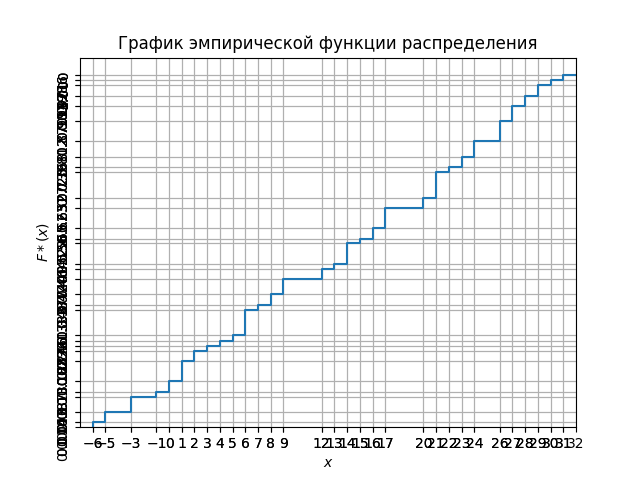
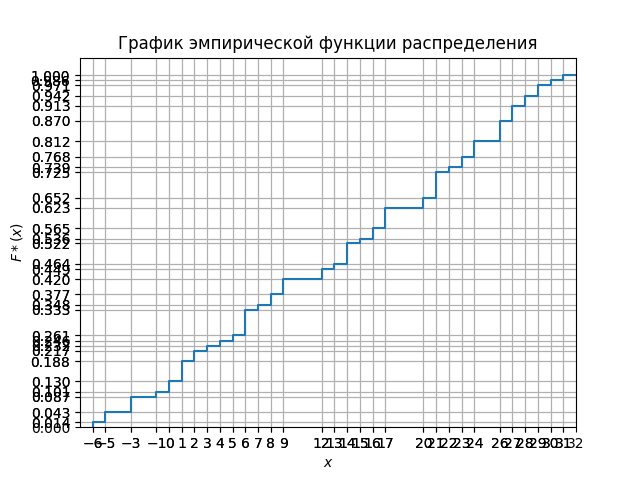
Добавил точки на осях

Changed region(s): [[0.0, 0.125, 0.125, 0.9688]]

diff --git a/Laba_5/2.py b/Laba_5/2.py
@@ -115,6 +115,8 @@ def F_x (intervals,rel_freq):
     sorted_intervals.insert(0,sorted_intervals[0]-1)
     print (sorted_intervals)
     plt.grid()
+    plt.xticks(sorted_intervals)
+    plt.yticks(variables)
     plt.xlabel (r'$x$')
     plt.ylabel(r'$F_x$')
     plt.title ("График эмпирической функции распределения")
@@ -161,10 +163,12 @@ def hyst_of_freq (x,intervals):
     else :
         plt.xlim (min(sorted_intervals) -1,max(sorted_intervals) + 1)
     plt.title ("Гистограмма частот")
+    plt.xticks(sorted_intervals)
+    plt.yticks(nh)
     plt.xlabel(r'$x$')
     plt.ylabel(r'$ni/h$')
     plt.ylim (0,max(nh) + 0.1 )
-    plt.plot (mass_x,mass_y)
+    plt.plot (mass_x,mass_y,'r')
     plt.show()
 
 def hyst_of_rel_freq (freq_y,intervals):
@@ -191,15 +195,21 @@ def hyst_of_rel_freq (freq_y,intervals):
         for i in range (2):
             mass_y.append(float("{0:.3f}".format(y/h)))
         mass_y.append(0)
+    y_to_plot = []
+    for yp in freq_y:
+        y_to_plot.append(float("{0:.3f}".format(yp/h)))
     print (mass_x)
     print (mass_y)
     if (min(sorted_intervals) >= 0):
         plt.xlim (0,max(sorted_intervals) + 1)
     else :
         plt.xlim (min(sorted_intervals) -1,max(sorted_intervals) + 1)
+    plt.grid()
     plt.title ("Гистограмма относительных частот")
     plt.xlabel(r'$x$')
     plt.ylabel(r'$wi/h$')
+    plt.xticks(sorted_intervals)
+    plt.yticks(y_to_plot)
     plt.ylim (0,max(mass_y)+ 0.1)
     plt.plot (mass_x,mass_y)
     plt.show()
